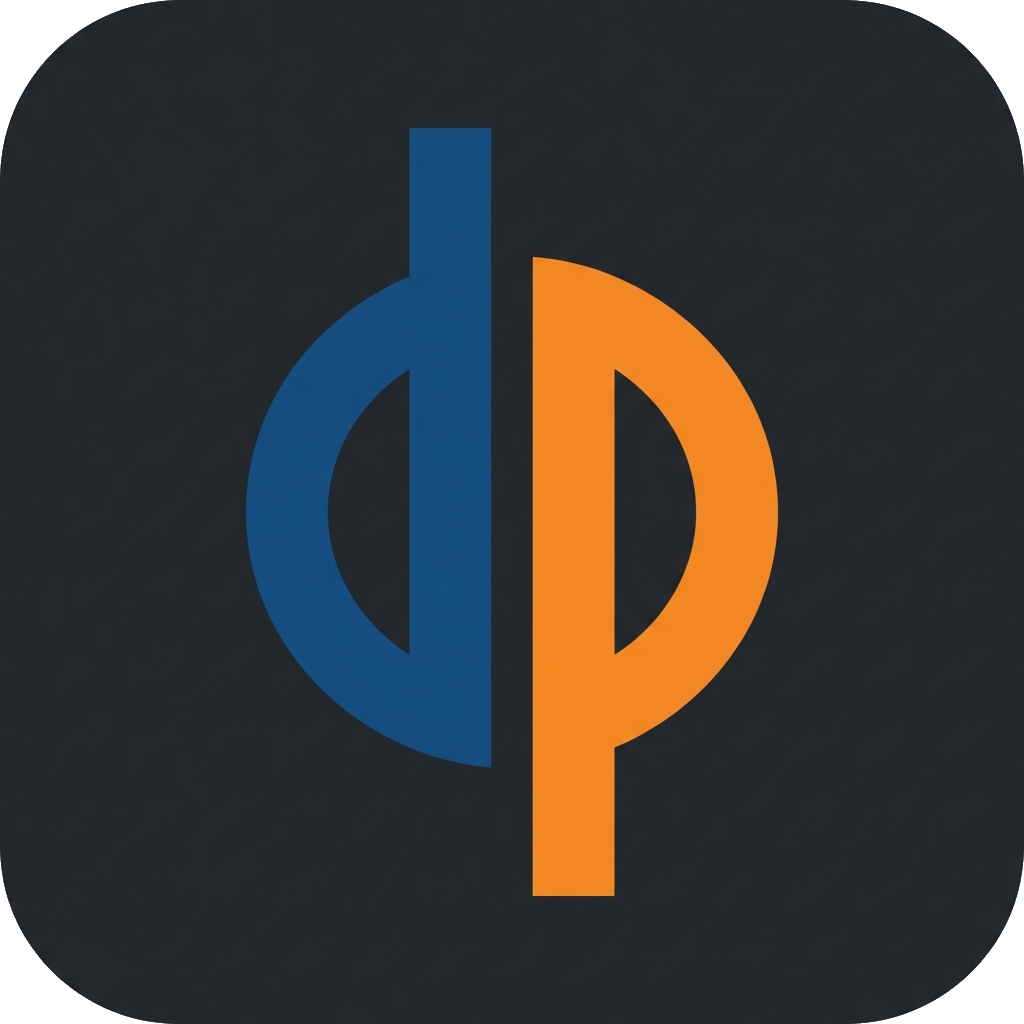
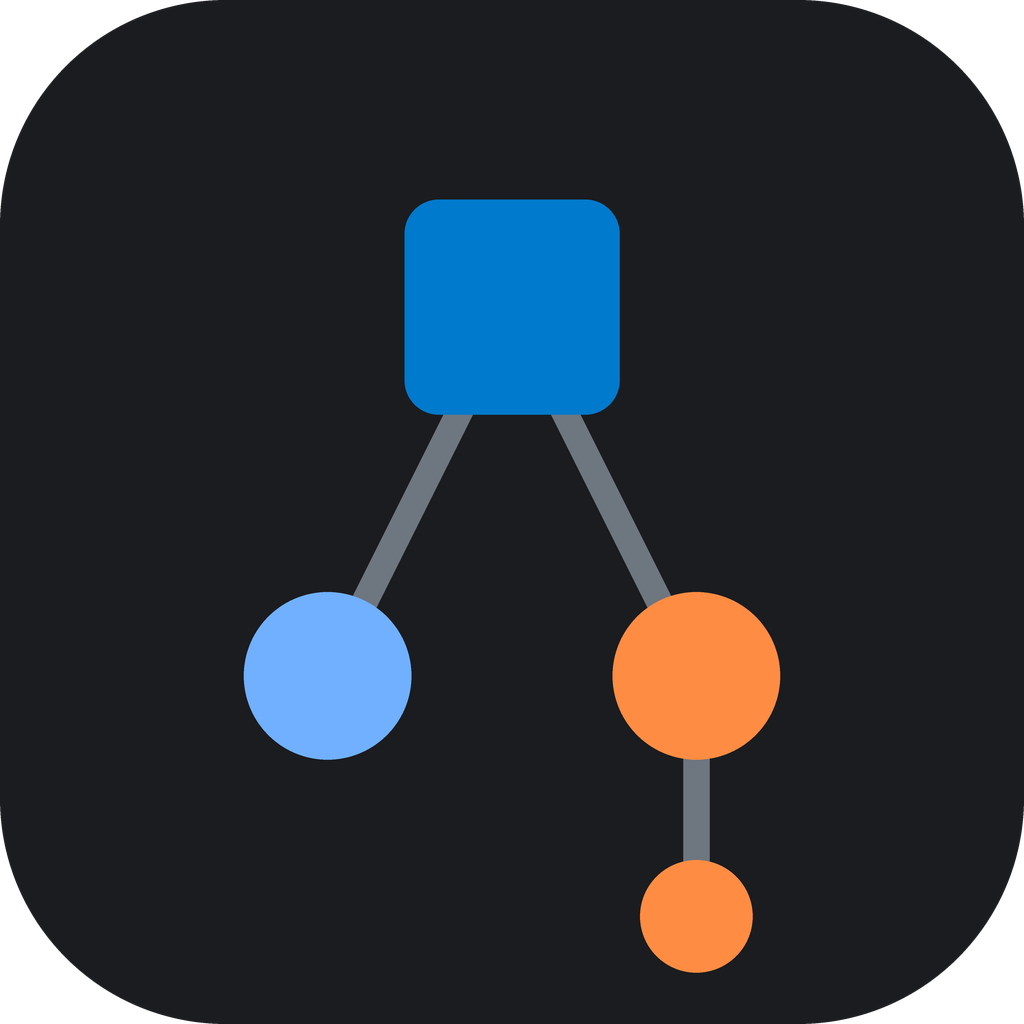
Give RszViewer its own identity, stop interrupting with popups
Logo: replace the generic AI-icon-generator monogram with a mark
tied to what the app actually does — a root object with nested
child objects, in the app's existing accent colors, echoing the RSZ
GameObject/Component hierarchy the tool edits.

Interaction: replace ~13 routine MessageBox.Show() calls (save
confirmations, load confirmations, validation warnings, most errors)
with a non-blocking status-bar toast (ShowStatus), so day-to-day use
doesn't get interrupted by modal dialogs. Kept MessageBox only for
the About box, a real yes/no decision (missing RSZ prompt), and two
dialogs carrying multi-line diagnostic detail worth reading closely.

Claude-Session: https://claude.ai/code/session_01AzERfSEDjr6tUc2bM2Axmk

diff --git a/src/Namsku.BioHazard.REE.RszViewer/MainWindow.xaml b/src/Namsku.BioHazard.REE.RszViewer/MainWindow.xaml
@@ -701,7 +701,7 @@
         <Border Grid.Row="4" Background="{StaticResource BgSecondary}" BorderBrush="{StaticResource BorderColor}" BorderThickness="0,1,0,0">
             <DockPanel Margin="14,0">
                 <StackPanel Orientation="Horizontal" VerticalAlignment="Center">
-                    <Ellipse Width="6" Height="6" Fill="{StaticResource SuccessGreen}" Margin="0,0,10,0"/>
+                    <Ellipse x:Name="StatusDot" Width="6" Height="6" Fill="{StaticResource SuccessGreen}" Margin="0,0,10,0"/>
                     <TextBlock x:Name="TxtStatusMessage" Text="Ready" FontSize="11" Foreground="{StaticResource TextSecondary}" Margin="0,0,20,0"/>
                     <TextBlock x:Name="TxtStatusStats" Text="" FontSize="11" Foreground="{StaticResource TextSecondary}"/>
                 </StackPanel>

diff --git a/src/Namsku.BioHazard.REE.RszViewer/MainWindow.xaml.cs b/src/Namsku.BioHazard.REE.RszViewer/MainWindow.xaml.cs
@@ -21,6 +21,7 @@ using IntelOrca.Biohazard.REE.Package;
 using Microsoft.Win32;
 using System.Threading;
 using System.Collections.Immutable;
+using System.Windows.Threading;
 
 namespace RszViewer
 {
@@ -253,7 +254,7 @@ namespace RszViewer
             {
                 _repoLoaded = false;
                 if (showErrors)
-                    MessageBox.Show("Error loading RSZ definitions: " + ex.Message);
+                    ShowStatus("Error loading RSZ definitions: " + ex.Message, StatusLevel.Error);
                 return false;
             }
         }
@@ -304,6 +305,42 @@ namespace RszViewer
                 : $"{GameCatalog.DisplayNameFor(_config.GameId)} | embedded RSZ";
         }
 
+        private enum StatusLevel { Info, Success, Warning, Error }
+
+        private DispatcherTimer? _statusTimer;
+
+        /// <summary>
+        /// Transient, non-blocking feedback in the status bar (right-hand slot) instead of a
+        /// modal MessageBox — routine confirmations/errors shouldn't stop a user mid-workflow.
+        /// </summary>
+        private void ShowStatus(string message, StatusLevel level = StatusLevel.Info)
+        {
+            if (TxtStatusStats == null) return;
+
+            var brush = level switch
+            {
+                StatusLevel.Error => (Brush)FindResource("ErrorRed"),
+                StatusLevel.Warning => (Brush)FindResource("AccentOrange"),
+                StatusLevel.Success => (Brush)FindResource("SuccessGreen"),
+                _ => (Brush)FindResource("TextSecondary")
+            };
+
+            TxtStatusStats.Text = message;
+            TxtStatusStats.Foreground = brush;
+            if (StatusDot != null) StatusDot.Fill = brush;
+
+            _statusTimer?.Stop();
+            _statusTimer = new DispatcherTimer { Interval = TimeSpan.FromSeconds(level == StatusLevel.Error ? 6 : 3.5) };
+            _statusTimer.Tick += (s, e) =>
+            {
+                _statusTimer!.Stop();
+                TxtStatusStats.Text = "";
+                TxtStatusStats.Foreground = (Brush)FindResource("TextSecondary");
+                if (StatusDot != null) StatusDot.Fill = (Brush)FindResource("SuccessGreen");
+            };
+            _statusTimer.Start();
+        }
+
         private void UpdateBreadcrumbs(string path)
         {
             if (string.IsNullOrEmpty(path))
@@ -343,7 +380,7 @@ namespace RszViewer
             }
             catch (Exception ex)
             {
-                MessageBox.Show("Error listing files: " + ex.Message);
+                ShowStatus("Error listing files: " + ex.Message, StatusLevel.Error);
             }
         }
 
@@ -497,7 +534,7 @@ namespace RszViewer
             }
             catch (Exception ex)
             {
-                MessageBox.Show($"Error loading file:\n{ex.Message}");
+                ShowStatus($"Error loading file: {ex.Message}", StatusLevel.Error);
             }
         }
 
@@ -523,7 +560,7 @@ namespace RszViewer
                  {
                      UpdateRszSheet();
                  }
-                 MessageBox.Show("Settings saved.");
+                 ShowStatus("Settings saved.", StatusLevel.Success);
              }
         }
 
@@ -859,7 +896,7 @@ namespace RszViewer
                         }
                         catch 
                         { 
-                            Application.Current.Dispatcher.Invoke(() => MessageBox.Show("Invalid regex pattern.")); 
+                            Application.Current.Dispatcher.Invoke(() => ShowStatus("Invalid regex pattern.", StatusLevel.Error));
                             return; 
                         }
                     }
@@ -970,7 +1007,7 @@ namespace RszViewer
         {
             if (string.IsNullOrEmpty(_config.NativesPath) || !Directory.Exists(_config.NativesPath))
             {
-                MessageBox.Show("Set Natives path in settings first for Deep Scan.");
+                ShowStatus("Set Natives path in settings first for Deep Scan.", StatusLevel.Warning);
                 return;
             }
 
@@ -1050,7 +1087,7 @@ namespace RszViewer
                     catch { /* Skip files that fail to load */ }
                 }
             }
-            catch (Exception ex) { MessageBox.Show($"Deep scan error: {ex.Message}"); }
+            catch (Exception ex) { ShowStatus($"Deep scan error: {ex.Message}", StatusLevel.Error); }
         }
 
 
@@ -1130,11 +1167,11 @@ namespace RszViewer
                     _config.Save();
                     UpdateGameMenu();
                     UpdateRszStatus();
-                    MessageBox.Show("Custom RSZ Definitions loaded.");
+                    ShowStatus("Custom RSZ definitions loaded.", StatusLevel.Success);
                 }
                 catch (Exception ex)
                 {
-                    MessageBox.Show("Error loading RSZ JSON: " + ex.Message);
+                    ShowStatus("Error loading RSZ JSON: " + ex.Message, StatusLevel.Error);
                 }
             }
         }
@@ -1310,7 +1347,7 @@ namespace RszViewer
             }
             catch (Exception ex)
             {
-                MessageBox.Show($"Error loading file: {ex.Message}");
+                ShowStatus($"Error loading file: {ex.Message}", StatusLevel.Error);
             }
         }
 
@@ -1448,7 +1485,7 @@ namespace RszViewer
             }
             catch (Exception ex)
             {
-                MessageBox.Show("Error comparing objects: " + ex.ToString());
+                ShowStatus("Error comparing objects: " + ex.Message, StatusLevel.Error);
             }
         }
 
@@ -1571,7 +1608,7 @@ namespace RszViewer
                     TracerUI.Initialize(_repo, selected.GameObject);
                     MainTabControl.SelectedIndex = 2; // RSZ LINK tab
                 }
-                else MessageBox.Show("Please select a GameObject to trace.");
+                else ShowStatus("Please select a GameObject to trace.", StatusLevel.Warning);
             }
         }
 
@@ -1589,7 +1626,7 @@ namespace RszViewer
             {
                 foreach(TabItem tab in MainTabControl.Items) if (tab.Header.ToString() == "RSZ LINK") { MainTabControl.SelectedItem = tab; break; }
                 if (_repo != null) TracerUI.Initialize(_repo, vm.GameObject);
-                else MessageBox.Show("RSZ Repository not loaded.");
+                else ShowStatus("RSZ Repository not loaded.", StatusLevel.Warning);
             }
         }
 
@@ -1758,7 +1795,7 @@ namespace RszViewer
                     {
                         for(int i=0; i<parts.Length; i++) vm.VectorValues[i].ComponentValue = parts[i];
                     }
-                    else MessageBox.Show($"Clipboard data format mismatch. Expected {vm.VectorValues.Count} values.");
+                    else ShowStatus($"Clipboard data format mismatch. Expected {vm.VectorValues.Count} values.", StatusLevel.Warning);
                 }
             }
         }
